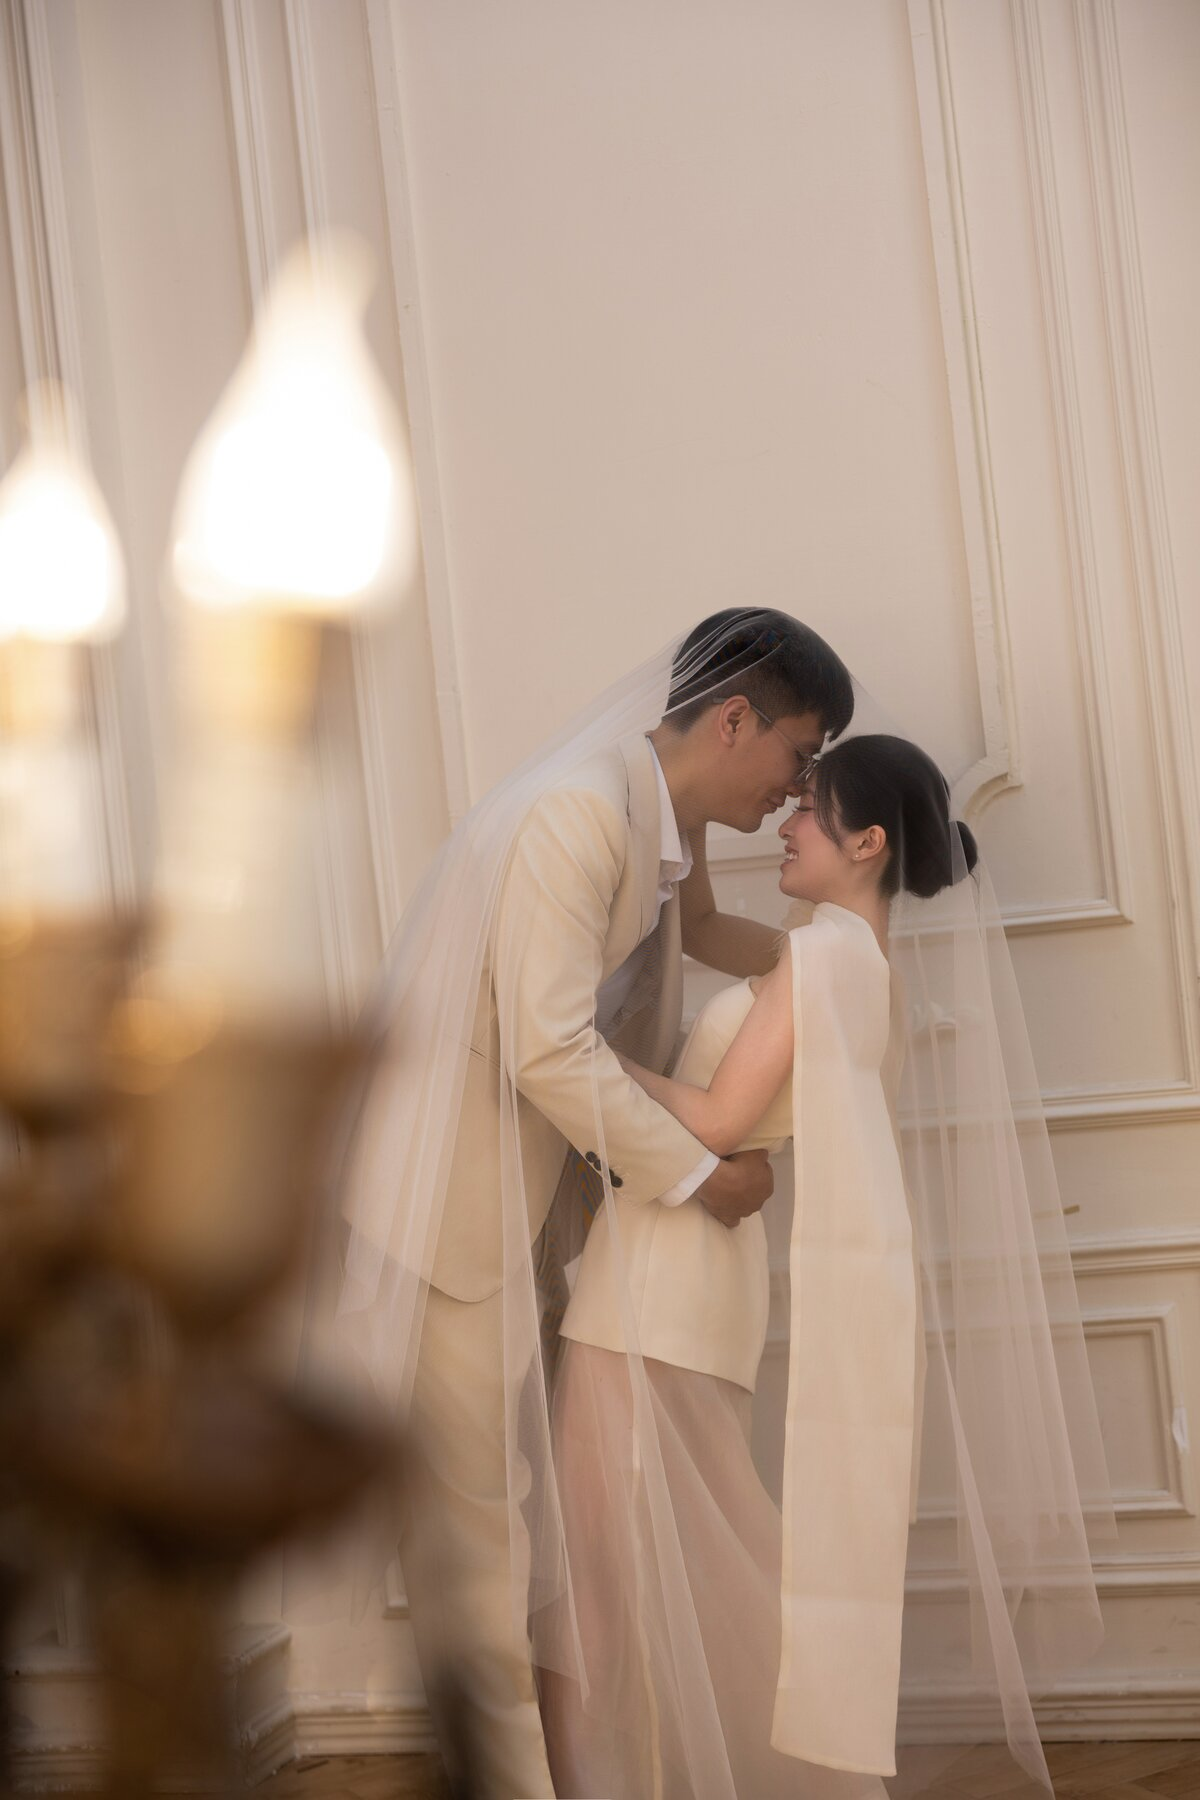
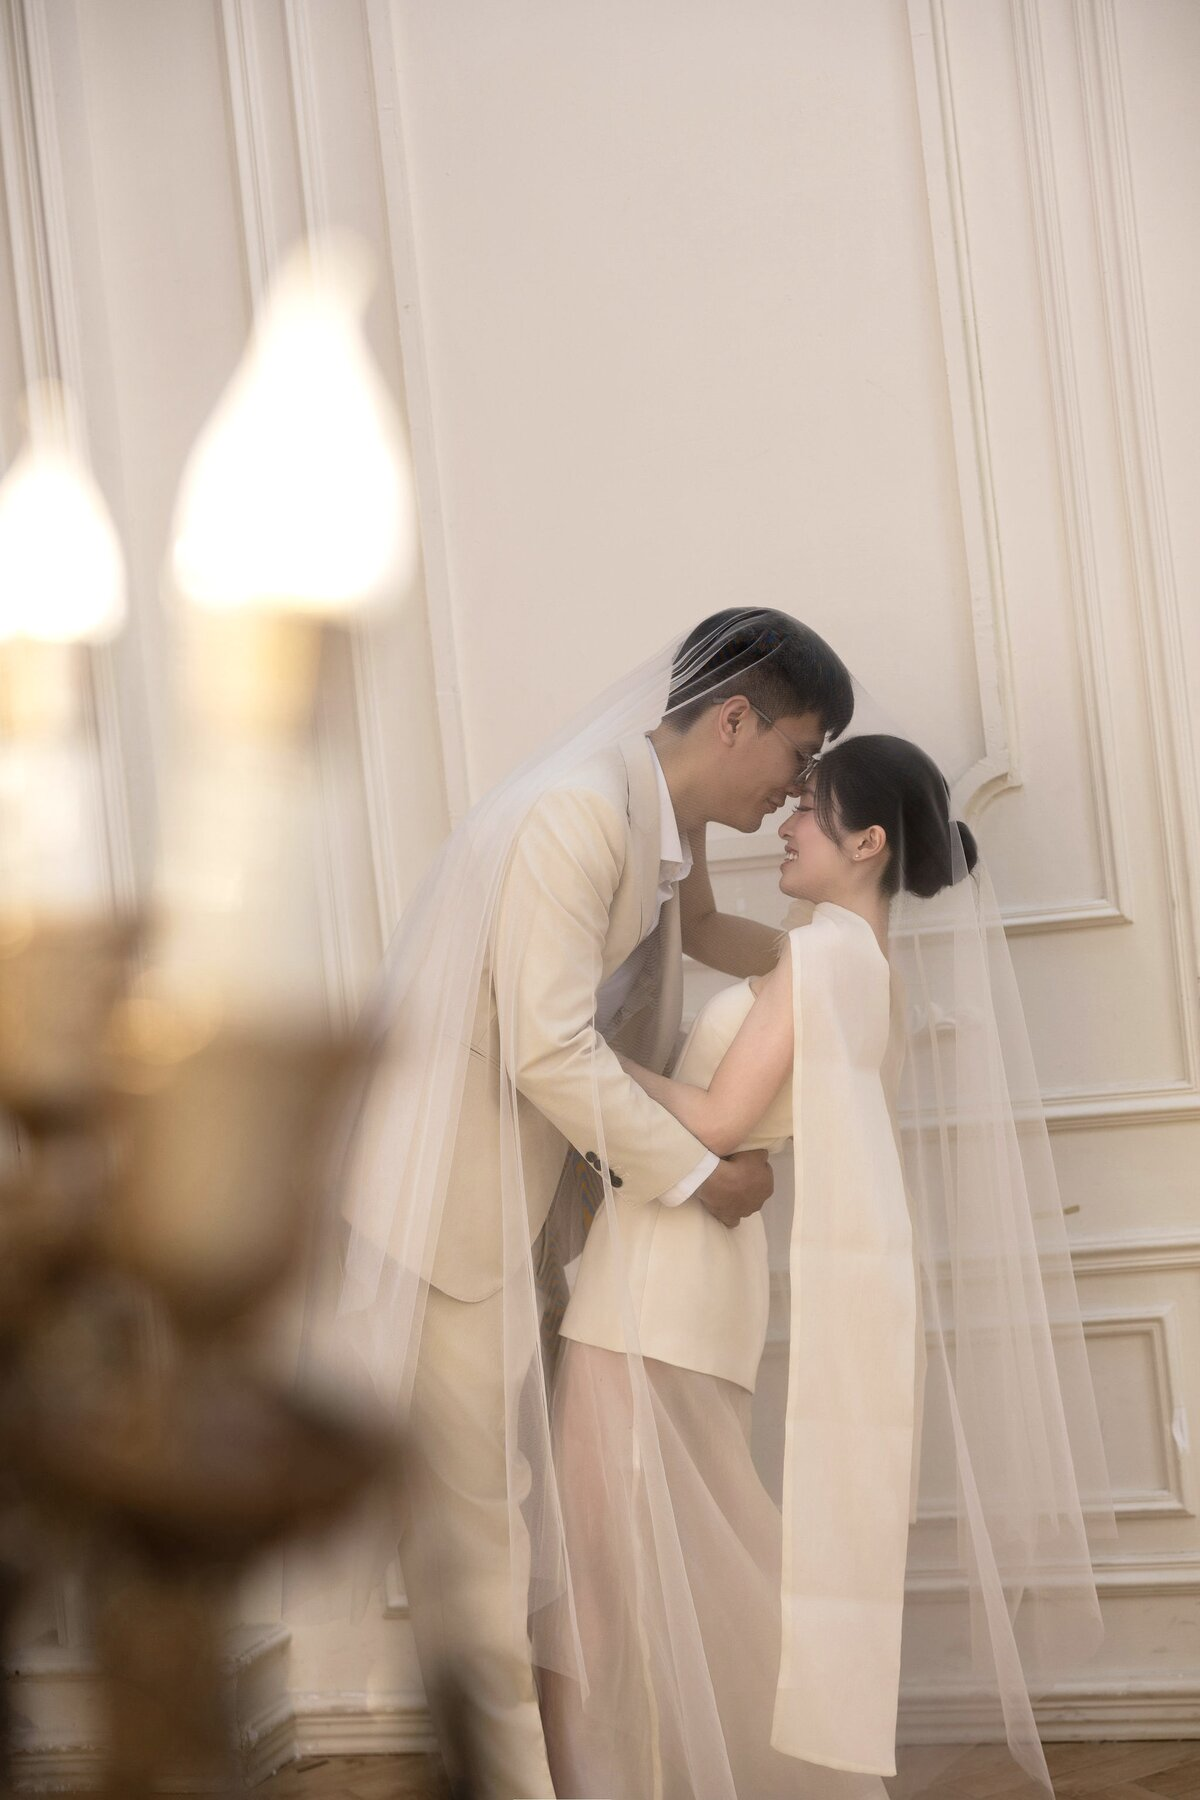
Use the edited photos on the 2411 invitation (#24)

diff --git a/pages/linh-dat-wedding-invitation/2411/index.html b/pages/linh-dat-wedding-invitation/2411/index.html
@@ -1505,9 +1505,9 @@
           <!-- Dải ảnh: chạm vào một khung để xem ảnh lớn -->
           <div class="strip out" style="--i: 0; --dx: 24cqw; --dy: -30cqw">
             <img src="../assets/strip.webp" alt="" />
-            <button type="button" style="--y: 0.94%" aria-label="Xem ảnh"><img src="../assets/photos/9124-s.webp" data-full="../assets/photos/9124.jpg" alt="Khánh Linh và Xuân Đạt" /></button>
-            <button type="button" style="--y: 33.1%" aria-label="Xem ảnh"><img src="../assets/photos/9620-s.webp" data-full="../assets/photos/9620.jpg" alt="Khánh Linh và Xuân Đạt" /></button>
-            <button type="button" style="--y: 65.25%" aria-label="Xem ảnh"><img src="../assets/photos/9779-s.webp" data-full="../assets/photos/9779.jpg" alt="Khánh Linh và Xuân Đạt" /></button>
+            <button type="button" style="--y: 0.94%" aria-label="Xem ảnh"><img src="../assets/photos/5463-s.webp" data-full="../assets/photos/5463.jpg" alt="Khánh Linh và Xuân Đạt" /></button>
+            <button type="button" style="--y: 33.1%" aria-label="Xem ảnh"><img src="../assets/photos/9779-s.webp" data-full="../assets/photos/9779.jpg" alt="Khánh Linh và Xuân Đạt" /></button>
+            <button type="button" style="--y: 65.25%" aria-label="Xem ảnh"><img src="../assets/photos/5466-s.webp" data-full="../assets/photos/5466.jpg" alt="Khánh Linh và Xuân Đạt" /></button>
           </div>
 
           <!-- Đĩa than, giắt sau tờ lịch: bật và tắt nhạc -->
@@ -1589,7 +1589,7 @@
               </div>
               <div class="face back">
                 <button type="button" aria-label="Xem ảnh" tabindex="-1">
-                  <img src="../assets/photos/9302-card.webp" data-full="../assets/photos/9302.jpg" alt="Khánh Linh và Xuân Đạt" />
+                  <img src="../assets/photos/5464-card.webp" data-full="../assets/photos/5464.jpg" alt="Khánh Linh và Xuân Đạt" />
                 </button>
               </div>
             </div>

diff --git a/release.md b/release.md
@@ -1,1 +1,1 @@
-Sun Nov  8 04:55:55 PM +07 2026
+Sun Nov  8 05:14:51 PM +07 2026
